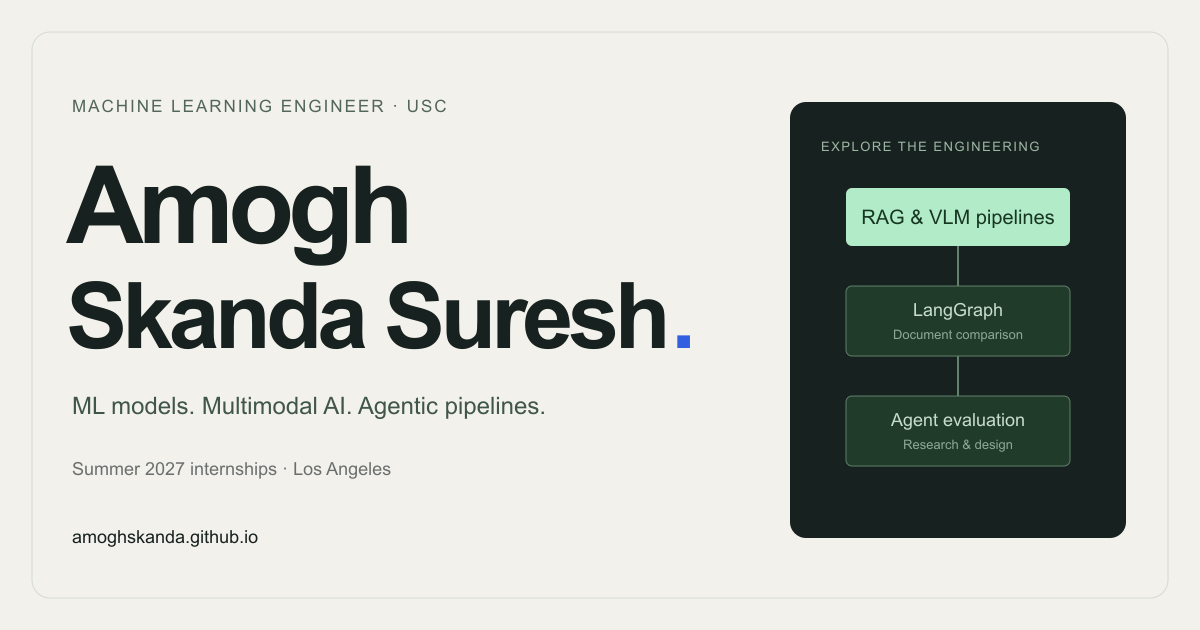
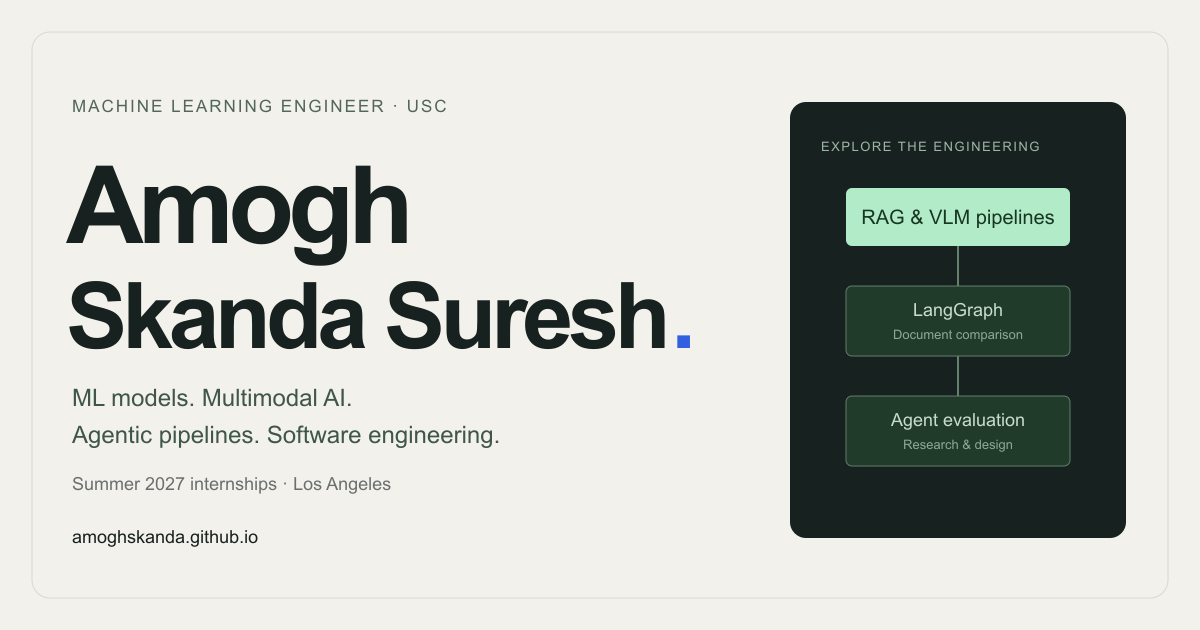
Broaden AI and software positioning and add About recommendations

Changed region(s): [[0.0617, 0.6032, 0.4625, 0.7841]]

diff --git a/src/data/projects.ts b/src/data/projects.ts
@@ -60,19 +60,19 @@ export const projects: Record<ProjectKey, Project> = {
   },
   labeling: {
     number: '02',
-    title: 'Multimodal AI pipelines',
+    title: 'RAG & LLM/VLM pipelines',
     kind: 'Professional case study',
     anchor: 'case-labeling',
-    overview: 'Retrieval-augmented generation (RAG) supplies labeled examples to a task-adapted vision-language model (VLM) for auto-labeling. This multimodal AI pipeline connects retrieval, model inference, and structured outputs.',
-    decisions: 'RAG retrieves relevant labeled examples as context for the VLM. LoRA adaptation happens offline; it is not repeated for each labeling request. At request time, the adapted model generates label proposals that are decoded into a structured form.',
-    evidence: 'Professional multimodal-labeling work at Bosch, described at a high level. Employer models, datasets, and implementation remain private.',
+    overview: 'A retrieval-augmented multimodal AI pipeline that connects context retrieval, VLM inference, and structured outputs. At Bosch, I applied this workflow to image auto-labeling.',
+    decisions: 'RAG retrieves relevant examples as context for the VLM. LoRA adaptation happens offline, separately from each request. At request time, the adapted model generates proposals that are decoded into a structured form.',
+    evidence: 'Professional multimodal AI work at Bosch, described at a high level. The application was image auto-labeling. Employer models, datasets, and implementation remain private.',
     stages: [
-      ['Images', 'Task + views', 'Images and a task instruction define the labeling request. The inputs must match the task and the adapted model\'s expected visual representation.'],
+      ['Images', 'Task + views', 'Images and a task instruction define the request. The inputs must match the task and the adapted model\'s expected visual representation.'],
       ['RAG', 'Retrieve context', 'Embedding-based retrieval selects relevant labeled examples as context for the current request. This is the retrieval step in the RAG pipeline; selecting examples is distinct from updating the VLM\'s parameters.'],
-      ['VLM', 'Adapted model', 'The vision-language model uses the visual input, instruction, and retrieved context to predict label information. Its task adaptation was performed beforehand.'],
-      ['Labels', 'Decode outputs', 'Model responses are decoded into structured label proposals. Postprocessing interprets the predicted attributes and combines outputs where the labeling task requires it.']
+      ['VLM', 'Adapted model', 'The vision-language model uses the visual input, instruction, and retrieved context to generate a task-specific response. Its task adaptation was performed beforehand.'],
+      ['Outputs', 'Structured data', 'Model responses are decoded into structured proposals. In the auto-labeling application, these proposals describe image attributes for review.']
     ],
-    contextNote: 'RAG provides labeled context at request time. LoRA adapts the VLM offline. The pipeline generates structured label proposals for review.'
+    contextNote: 'RAG supplies context at request time. LoRA adapts the VLM offline. Structured model outputs are prepared for review.'
   },
   pipelines: {
     number: '03',
@@ -126,7 +126,7 @@ export const projects: Record<ProjectKey, Project> = {
 
 export const workflowChoices: { key: ProjectKey; category: string; title: string[] }[] = [
   { key: 'perception', category: 'Autonomous driving', title: ['Static object detection', '& ML pipelines'] },
-  { key: 'labeling', category: 'Multimodal AI', title: ['RAG & VLM labeling'] },
+  { key: 'labeling', category: 'Multimodal AI', title: ['RAG & LLM/VLM', 'pipelines'] },
   { key: 'pipelines', category: 'ML infrastructure', title: ['ML data pipelines'] },
   { key: 'documents', category: 'LLM & agentic AI', title: ['Agentic document', 'comparison'] },
   { key: 'agents', category: 'Agentic systems', title: ['Agent evaluation', '& recovery'] },

diff --git a/src/styles/about.css b/src/styles/about.css
@@ -1,0 +1,207 @@
+.about-section {
+  padding-top: 90px;
+}
+
+.about-introduction {
+  display: grid;
+  grid-template-columns: 1.1fr 1fr;
+  gap: 85px;
+  align-items: center;
+}
+
+.about-copy > .eyebrow {
+  color: var(--muted);
+  margin-bottom: 20px;
+}
+
+.about-copy h2 {
+  font-size: 48px;
+  font-weight: 500;
+  margin-bottom: 26px;
+}
+
+.about-copy h2 > span {
+  color: var(--accent);
+}
+
+.about-copy > p:not(.eyebrow) {
+  max-width: 490px;
+  color: #606a64;
+  font-size: 13px;
+  line-height: 1.85;
+}
+
+.about-copy > .text-link {
+  margin-top: 24px;
+}
+
+.experience-summary {
+  display: grid;
+  grid-template-columns: repeat(2, minmax(0, 1fr));
+  gap: 30px;
+  margin: 0;
+}
+
+.experience-summary > div {
+  border-top: 1px solid var(--line);
+  padding-top: 20px;
+}
+
+.experience-summary dt {
+  font: 10px/1.6 var(--mono);
+  color: var(--muted);
+}
+
+.experience-summary dd {
+  margin: 20px 0 0;
+  font-size: clamp(32px, 3.5vw, 48px);
+  letter-spacing: -.055em;
+  line-height: 1.15;
+}
+
+.experience-summary dd > span {
+  display: block;
+  margin-top: 17px;
+  color: var(--muted);
+  font-size: 10px;
+  letter-spacing: 0;
+  line-height: 1.8;
+}
+
+.recommendations {
+  border-top: 1px solid var(--line);
+  padding-top: 32px;
+  margin-top: 55px;
+}
+
+.recommendations-heading {
+  display: flex;
+  align-items: flex-end;
+  justify-content: space-between;
+  gap: 25px;
+  margin-bottom: 25px;
+}
+
+.recommendations-heading .eyebrow {
+  color: var(--muted);
+  margin-bottom: 12px;
+}
+
+.recommendations-heading h3 {
+  font-size: 26px;
+  font-weight: 500;
+  letter-spacing: -.04em;
+  line-height: 1.2;
+}
+
+.recommendations-heading > a {
+  flex-shrink: 0;
+}
+
+.recommendation-grid {
+  display: grid;
+  grid-template-columns: repeat(2, minmax(0, 1fr));
+  gap: 20px;
+}
+
+.recommendation-card {
+  display: flex;
+  flex-direction: column;
+  margin: 0;
+  padding: 28px;
+  border: 1px solid var(--line);
+  border-radius: 6px;
+  background: #f8f7f2;
+}
+
+.recommendation-relationship {
+  color: #477159;
+  font: 10px/1.6 var(--mono);
+}
+
+.recommendation-card blockquote {
+  flex: 1;
+  margin: 17px 0 30px;
+}
+
+.recommendation-card blockquote p {
+  font-size: 17px;
+  line-height: 1.7;
+  letter-spacing: -.02em;
+}
+
+.recommendation-card figcaption > span {
+  display: block;
+}
+
+.recommendation-name {
+  font-size: 13px;
+  font-weight: 600;
+}
+
+.recommendation-role {
+  color: #606a64;
+  font-size: 11px;
+  line-height: 1.7;
+  margin-top: 4px;
+}
+
+.recommendation-source {
+  color: var(--muted);
+  font: 9px/1.8 var(--mono);
+  margin-top: 12px;
+}
+
+.recommendations-note {
+  color: var(--muted);
+  font-size: 10px;
+  margin-top: 14px;
+}
+
+@media (max-width: 900px) {
+  .about-introduction {
+    gap: 40px;
+    grid-template-columns: 1fr 1fr;
+  }
+
+  .experience-summary {
+    gap: 18px;
+  }
+}
+
+@media (max-width: 700px) {
+  .about-section {
+    padding-top: 60px;
+  }
+
+  .about-introduction,
+  .recommendation-grid {
+    grid-template-columns: 1fr;
+  }
+
+  .about-copy h2 {
+    font-size: 40px;
+  }
+
+  .experience-summary dd {
+    font-size: 38px;
+  }
+
+  .recommendations {
+    margin-top: 35px;
+  }
+
+  .recommendations-heading {
+    align-items: flex-start;
+    flex-direction: column;
+    gap: 18px;
+  }
+
+  .recommendations-heading h3 {
+    font-size: 23px;
+  }
+
+  .recommendation-card {
+    padding: 24px;
+  }
+}

diff --git a/src/data/profile.ts b/src/data/profile.ts
@@ -3,8 +3,8 @@ export const profile = {
   firstName: 'Amogh',
   otherNames: 'Skanda Suresh',
   siteUrl: 'https://amoghskanda.github.io',
-  title: 'Amogh Skanda Suresh · ML, multimodal AI & agentic pipelines',
-  description: 'Amogh Skanda Suresh, M.S. Computer Science at USC and previously a Machine Learning Engineer at Bosch. Work in computer vision, RAG-based LLM/VLM pipelines, LangGraph document comparison, and ML data engineering. Toolkit includes LangChain; current research explores agent evaluation and recovery. Seeking Summer 2027 internships.',
+  title: 'Amogh Skanda Suresh · ML, AI & software engineering',
+  description: 'Machine learning engineer and M.S. Computer Science student at USC with two years of full-time experience at Bosch. Work in computer vision, RAG and LLM/VLM pipelines, agentic AI, APIs, and data engineering. Seeking Summer 2027 internships in ML, applied AI, software engineering, and data science.',
   email: 'amoghska@usc.edu',
   phone: '+12136968441',
   phoneDisplay: '+1 213 696 8441',
@@ -14,8 +14,8 @@ export const profile = {
   availability: 'Available for Summer 2027 internships',
   graduation: 'Expected graduation · May 2028',
   role: 'Machine learning engineer · USC',
-  heroStatement: ['Machine learning. Multimodal AI.', 'Agentic pipelines.'],
-  introduction: 'I build ML models, multimodal AI pipelines, and the software around them. M.S. Computer Science at USC, previously at Bosch working on computer vision, RAG-based VLM labeling, and agentic LLM workflows.',
+  heroStatement: ['Machine learning. Multimodal AI.', 'Agentic pipelines. Software engineering.'],
+  introduction: 'I build ML models, LLM/VLM pipelines, and the software that connects them. M.S. Computer Science at USC, previously at Bosch working across computer vision, retrieval-augmented generation, agentic AI, and data engineering.',
   toolkit: ['LLM / VLM', 'RAG', 'LangGraph', 'LangChain'],
 };
 

diff --git a/src/data/about.ts b/src/data/about.ts
@@ -1,0 +1,27 @@
+export const about = {
+  introduction: "I'm a machine learning engineer and M.S. Computer Science student at USC. Before USC, I spent two years at Bosch building computer vision models, multimodal AI workflows, and data pipelines.",
+  approach: 'My work spans model development, retrieval, agent orchestration, Python APIs, and SQL/Spark data workflows. I enjoy connecting the model with the software and data it needs to work in practice.',
+  experience: [
+    { value: '2 years', label: 'Full-time at Bosch', detail: 'Machine Learning Engineer · Aug 2024 to Jul 2026' },
+    { value: '8 months', label: 'Bosch internships', detail: 'Two ML engineering placements · 2023 & 2024' },
+  ],
+};
+
+export const recommendations = [
+  {
+    name: 'Mahesh Madduri',
+    role: 'Lead AI Engineer',
+    relationship: 'Direct manager',
+    quote: 'He consistently demonstrated exceptional technical expertise, strong problem-solving skills, and a proactive approach to tackling complex engineering challenges.',
+    date: 'August 3, 2026',
+    dateTime: '2026-08-03',
+  },
+  {
+    name: 'Sreenivas Narasimha Murali',
+    role: 'Tech Lead AI/ML/DL · Bosch Global Software Technologies',
+    relationship: 'Mentor',
+    quote: 'Amogh is an agile developer and a quick learner in the DL space.',
+    date: 'July 18, 2026',
+    dateTime: '2026-07-18',
+  },
+];

diff --git a/src/data/content.ts b/src/data/content.ts
@@ -27,8 +27,8 @@ export const professionalWork: ProfessionalWork[] = [
   {
     "id": "case-labeling",
     "category": "Bosch · Full-time experience",
-    "title": "Multimodal AI pipelines",
-    "summary": "I worked on a retrieval-augmented generation (RAG) pipeline for VLM auto-labeling. Retrieved examples provide context to a vision-language model, which generates structured label proposals from images and task instructions.",
+    "title": "RAG & LLM/VLM pipelines",
+    "summary": "I connected retrieval, VLM inference, and structured outputs in a multimodal AI pipeline. At Bosch, I applied it to auto-labeling, using relevant examples and task instructions to generate label proposals from images.",
     "tags": [
       "Multimodal AI",
       "RAG",
@@ -36,7 +36,7 @@ export const professionalWork: ProfessionalWork[] = [
       "LoRA"
     ],
     "detailTitle": "Adaptation and inference",
-    "detail": "LoRA adapts the model during preparation. The adapted model generates proposals during inference; fine-tuning is separate from each labeling request."
+    "detail": "LoRA adapts the model during preparation. The adapted model generates structured proposals at request time; adaptation happens separately from inference."
   },
   {
     "id": "case-pipelines",

diff --git a/src/scripts/navigation.js b/src/scripts/navigation.js
@@ -1,10 +1,12 @@
 import { profile, emailHref, resumeRequestHref } from '../data/profile';
 
 const commands = [
+  ['About Amogh · Bosch experience · USC', '#about', 'About'],
+  ['Recommendations · manager and mentor · LinkedIn', '#recommendations', 'About'],
   ['Selected engineering work', '#work', 'Section'],
   ['Five interactive workflows', '#workflows', 'Explore'],
   ['Static object detection & ML pipelines', '#case-perception', 'Case study'],
-  ['RAG & VLM labeling', '#case-labeling', 'Case study'],
+  ['RAG & LLM/VLM pipelines', '#case-labeling', 'Case study'],
   ['ML data pipelines', '#case-pipelines', 'Case study'],
   ['Agentic document comparison · LangGraph · LLMs · FastAPI', '#case-agentic', 'Case study'],
   ['AI toolkit · LLM / VLM · RAG · LangGraph · LangChain', '#main', 'Toolkit'],

diff --git a/README.md b/README.md
@@ -28,12 +28,13 @@ The production preview runs at `http://127.0.0.1:4174`.
 | Content | Location |
 | --- | --- |
 | Contact details and profile information | `src/data/profile.ts` |
+| About, Bosch experience summary, and LinkedIn recommendation excerpts | `src/data/about.ts` |
 | The five workflow diagrams and inspector text | `src/data/projects.ts` |
 | Internship workflow text | `src/data/internships.ts` |
 | Full-time case studies, tracker, public projects, education/timeline | `src/data/content.ts` |
 | Internship introduction and media captions | `src/components/InternshipSection.astro` |
 | Research introduction and recovery demonstration | `src/components/RecoveryLab.astro`, `src/scripts/recovery.js` |
-| Visual styling | `src/styles/site.css`, `src/styles/recovery.css` |
+| Visual styling | `src/styles/site.css`, `src/styles/about.css`, `src/styles/recovery.css` |
 | Images and other public files | `public/` |
 
 Content can also be revised through the existing Codex chat. The changes still need to be committed and pushed to publish.
